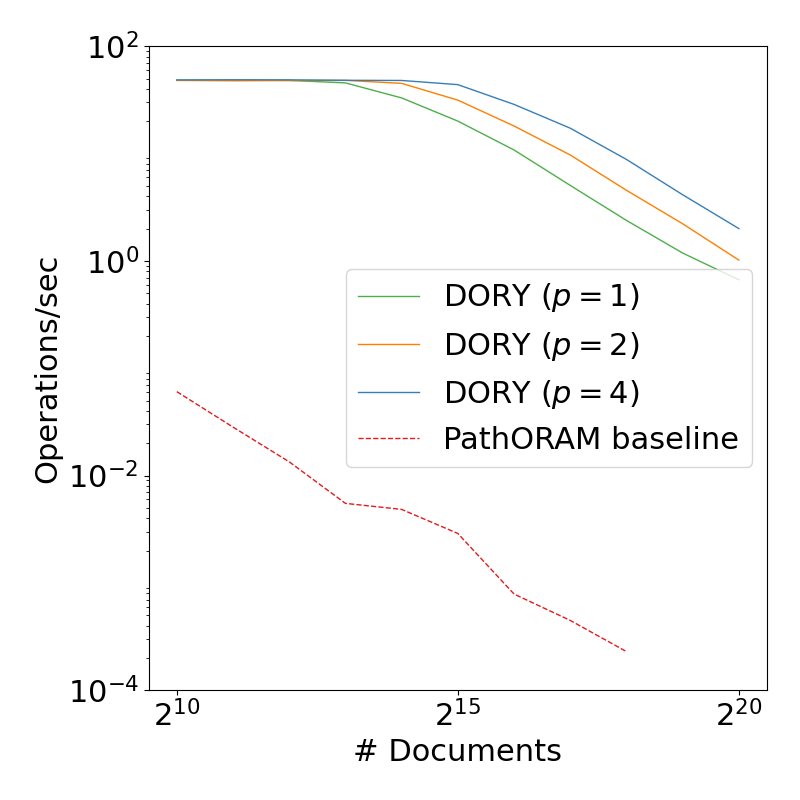
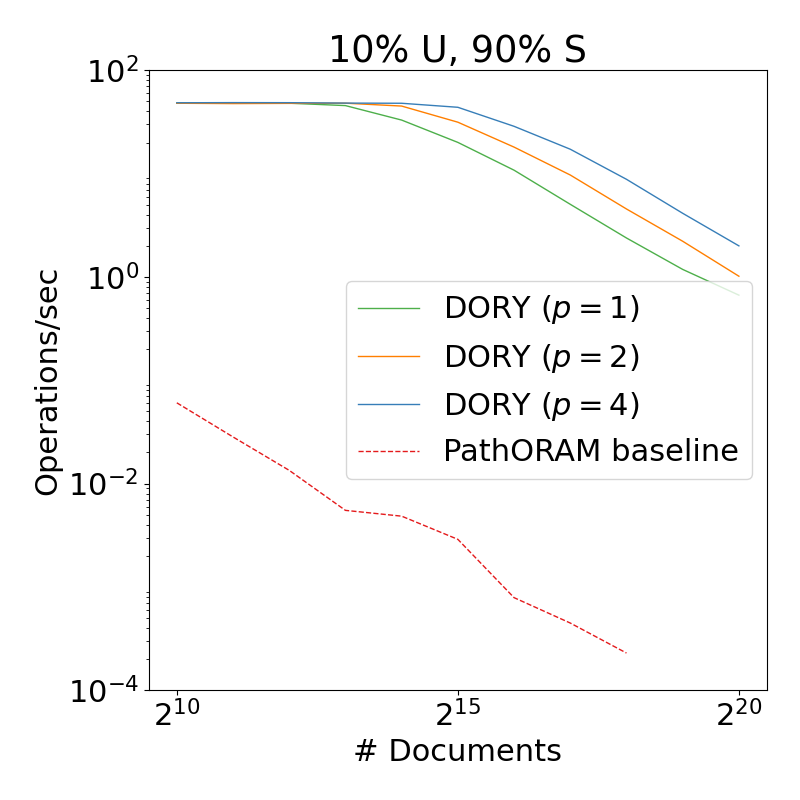
update ref plots

diff --git a/bench/plot_fig11c.py b/bench/plot_fig11c.py
@@ -66,7 +66,7 @@ ax.set_xlabel("# Documents")
 ax.set_ylabel("Relative throughput")
 ax.set_xticks([ 500000, 1000000])
 ax.set_xticklabels(["0.5M", "1M"])
-ax.set_title("50% U, 50% S")
+ax.set_title("90% U, 10% S")
 
 plt.legend()
 plt.tight_layout()

diff --git a/bench/plot_fig10a.py b/bench/plot_fig10a.py
@@ -62,6 +62,7 @@ ax.set_xlabel("# Documents")
 ax.set_ylabel("Operations/sec")
 ax.set_xticks([1024, 32768, 1048576])
 ax.set_yticks([100, 1, 0.01, 0.0001])
+ax.set_title("10% U, 90% S")
 
 plt.legend()
 plt.tight_layout()

diff --git a/bench/plot_fig10b.py b/bench/plot_fig10b.py
@@ -62,6 +62,7 @@ ax.set_xlabel("# Documents")
 ax.set_ylabel("Operations/sec")
 ax.set_xticks([1024, 32768, 1048576])
 ax.set_yticks([100, 1, 0.01, 0.0001])
+ax.set_title("50% U, 50% S")
 
 plt.legend()
 plt.tight_layout()

diff --git a/bench/plot_fig10c.py b/bench/plot_fig10c.py
@@ -62,6 +62,7 @@ ax.set_xlabel("# Documents")
 ax.set_ylabel("Operations/sec")
 ax.set_xticks([1024, 32768, 1048576])
 ax.set_yticks([100, 1, 0.01, 0.0001])
+ax.set_title("10% U, 90% S")
 
 plt.legend()
 plt.tight_layout()

diff --git a/README.md b/README.md
@@ -21,7 +21,7 @@ pip3 install -r requirements.txt
 
 ```
 
-2. [5 minutes] Install [AWS CLI](https://docs.aws.amazon.com/cli/latest/userguide/cli-chap-install.html) and run `aws configure` using the instructions [here](https://docs.aws.amazon.com/cli/latest/userguide/cli-configure-quickstart.html) (use `json` as the default output format, and it does not matter what default region you choose).
+2. [5 minutes] Install [AWS CLI](https://docs.aws.amazon.com/cli/latest/userguide/cli-chap-install.html) (version 2 works) and run `aws configure` using the instructions [here](https://docs.aws.amazon.com/cli/latest/userguide/cli-configure-quickstart.html) (use `json` as the default output format, and it does not matter what default region you choose).
 
 3. [2 minutes] To start a cluster, run the following:
 ```
